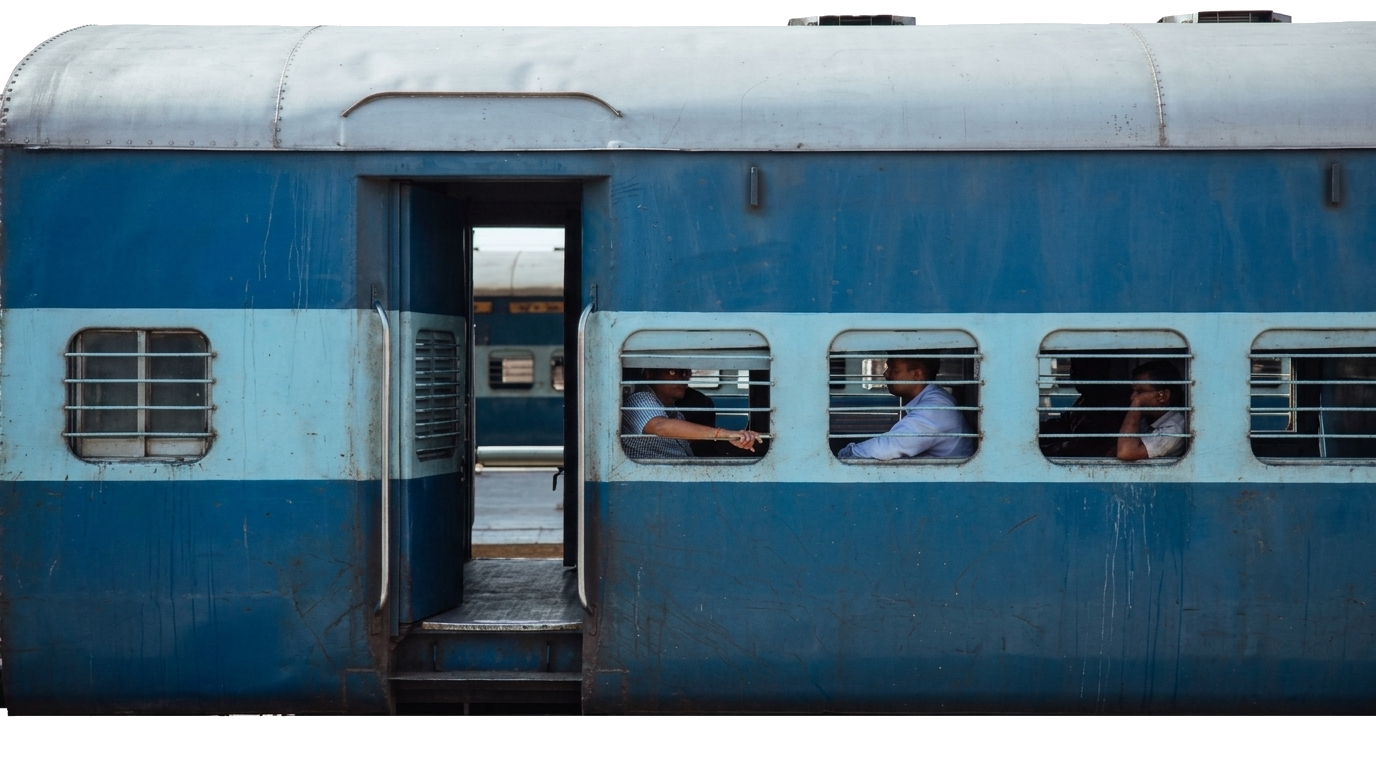
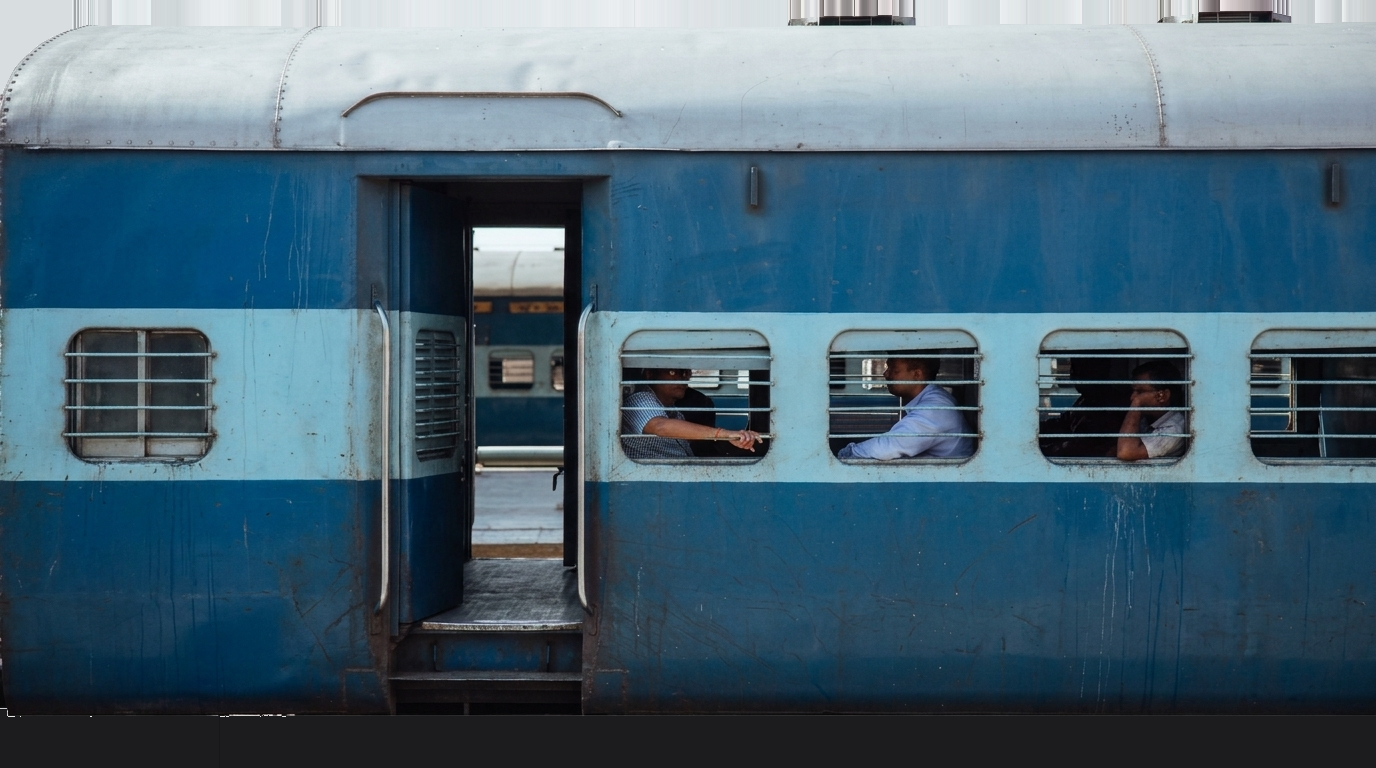
train

Changed region(s): [[0.0, 0.9062, 1.0, 1.0], [0.0, 0.0, 1.0, 0.125]]

diff --git a/src/style.css b/src/style.css
@@ -287,9 +287,9 @@ body[data-phase='destination'] .miu-chip.is-active { background: var(--ink); }
 
 .train-wipe-track {
   position: absolute;
-  top: 0;
+  top: -2px;
   left: 0;
-  height: 100vh;
+  height: calc(100vh + 4px);
   display: flex;
   flex-direction: row;
   align-items: stretch;
@@ -297,7 +297,7 @@ body[data-phase='destination'] .miu-chip.is-active { background: var(--ink); }
 }
 
 .train-wipe-car {
-  height: 100vh;
+  height: calc(100vh + 4px);
   width: auto;
   min-width: 178vh;
   max-width: none;
